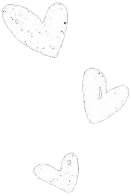
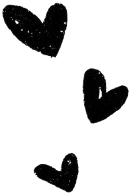
Color restyling

Changed region(s): [[0.0, 0.0, 0.5191, 0.3061], [0.6107, 0.3367, 1.0, 0.6429], [0.2443, 0.7653, 0.6107, 1.0]]

diff --git a/css/style.css b/css/style.css
@@ -5,11 +5,12 @@
   --invalid-color: rgb(255, 120, 120);
   --global-bg-color: rgb(173 205 242);
   --regular-fs: 1em;
+  --outline-color: rgb(20, 20, 20);
 
   --bg-color-1: rgb(143, 165, 214);
   --bg-color-2: rgb(139, 175, 214);
 
-  --nav-fw: 650;
+  --nav-fw: 600;
   --nav-fs: 1.25em;
   --nav-button-color: rgb(128 163 201);
   --nav-button-hover-color: rgb(80 102 126);
@@ -21,15 +22,14 @@
   --title-h1-fw: 800;
   --title-h2-fs: 2em;
   --title-h2-fw: 500;
-  --title-color: rgb(244, 246, 247);
-  --title-shadow-color: rgb(0, 0, 0);
+  --title-color: rgb(20, 20, 20);
 
-  --radio-checked-bg: rgb(255, 255, 255); /* 255, 255, 255 = white*/
+  --radio-checked-bg: rgb(10, 10, 10); /* 255, 255, 255 = white*/
   --radio-checked-border: rgb(203, 221, 228);
 
   --photo-label-fs: 30px;
 
-  --social-attitude-bg: rgb(255, 255, 255); /* 255, 255, 255 = white*/
+  --social-attitude-bg: rgb(116, 137, 180);
 
   --about-me-legend-fs: 23px;
 
@@ -63,6 +63,11 @@ body {
   text-align: center;
   background-color: var(--global-bg-color);
   font-family: "Gveret Levin", cursive;
+}
+
+input:focus, select:focus, #upload-photo:focus, nav a:focus {
+  outline: solid;
+  outline-color: var(--outline-color);
 }
 
 .visually-hidden { /* Visually hidden, but available for screen readers */
@@ -137,7 +142,6 @@ h1 {
   font-weight: var(--title-h1-fw);
   font-size: var(--title-h1-fs);
   color: var(--title-color);
-  text-shadow: 0 0 8px var(--title-shadow-color);
   margin-block: 0;
   position: relative;
   margin-bottom: 0.4em;
@@ -222,7 +226,6 @@ img {
   border-radius: 5px;
   padding: 4px;
   background-color: var(--bg-color-1);
-  outline: none;
 }
 
 .full-name > div ,
@@ -288,7 +291,8 @@ img {
 
 #upload-photo:focus-visible + label
 {
-  outline: auto;
+  outline: solid;
+  outline-color: var(--outline-color);
 }
 /*#endregion */
 
@@ -321,7 +325,7 @@ img {
 }
 
 /* Social attitude slider */
-#social-attitude {
+#social-attitude { /* We had problems with this slider, and decided we didn't wanna use too much time on it, so we used AI sadly */
   --thumb-size: 16px;
   --track-height: 14px;
   --progress: 0;
@@ -404,11 +408,6 @@ textarea {
   padding: 4px;
 }
 
-#password:focus,
-#email:focus {
-  outline: none;
-}
-
 .password {
   margin-left: 1rem;
 }
@@ -462,6 +461,11 @@ textarea {
   height: 56px;
   width: 200px;
   font-size: 30px;
+}
+
+#button:focus {
+  outline: solid;
+  outline-color: var(--outline-color);
 }
 
 #button:hover {
